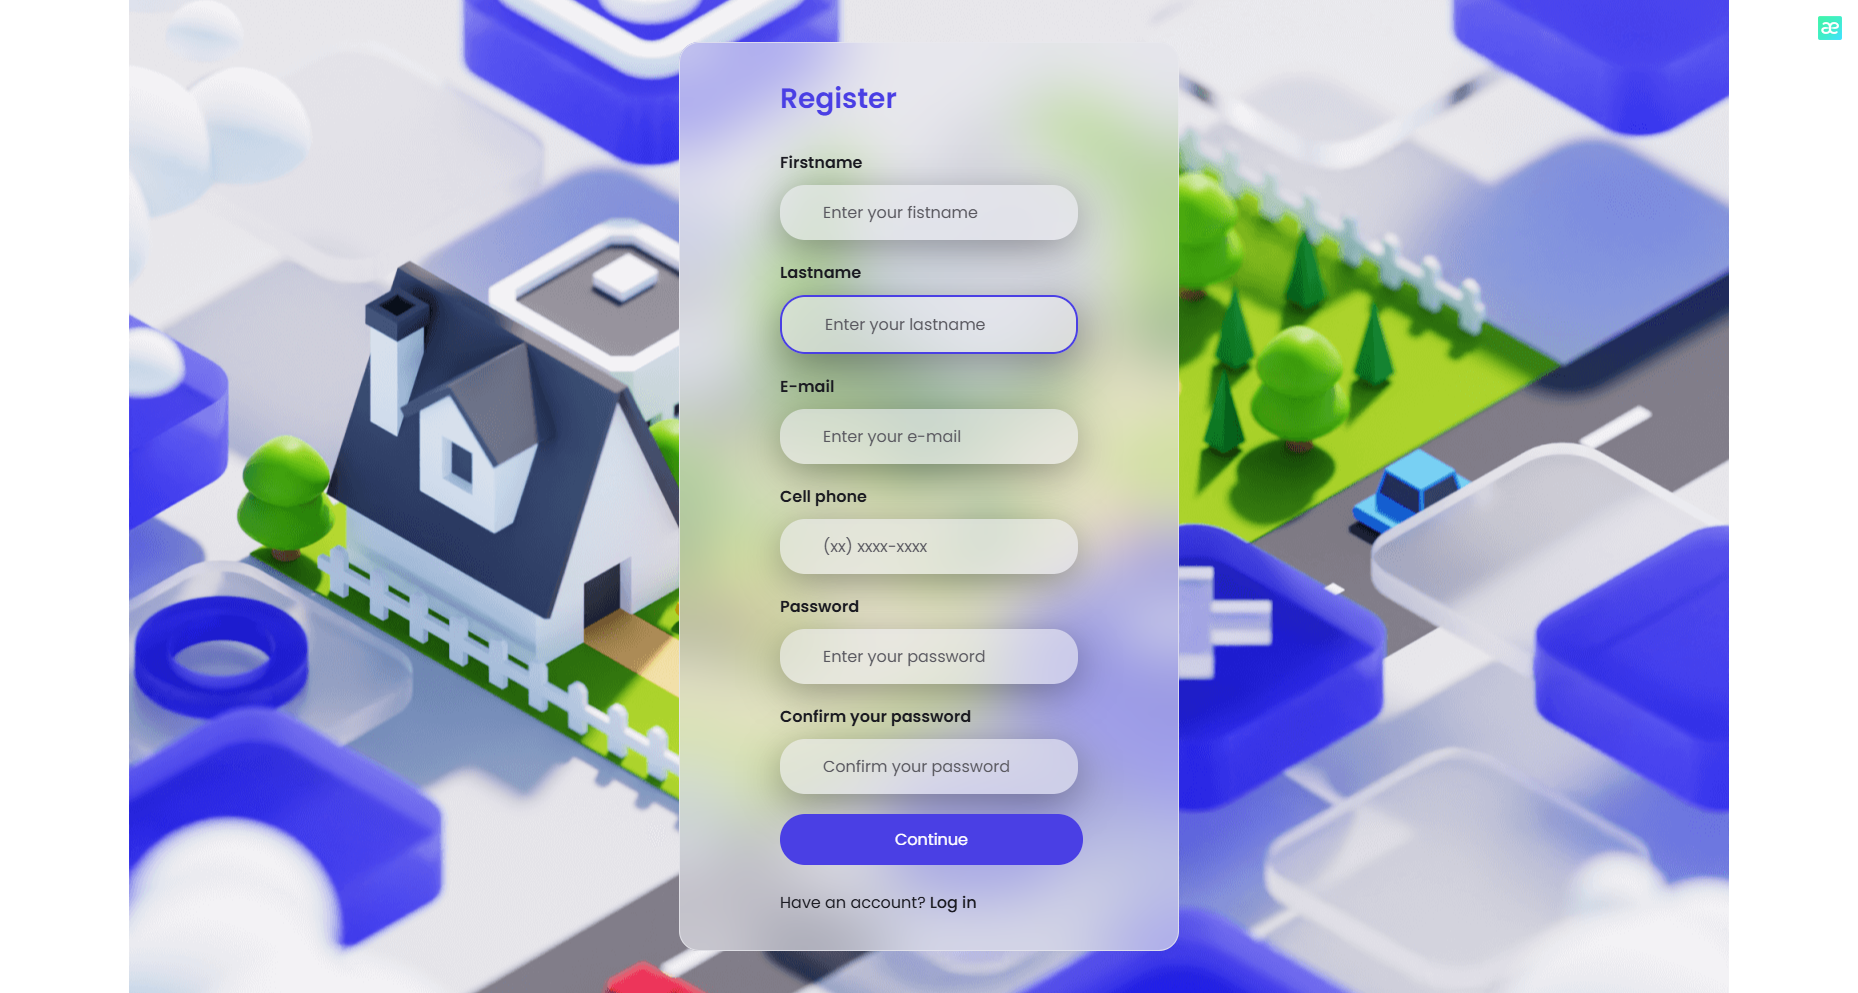
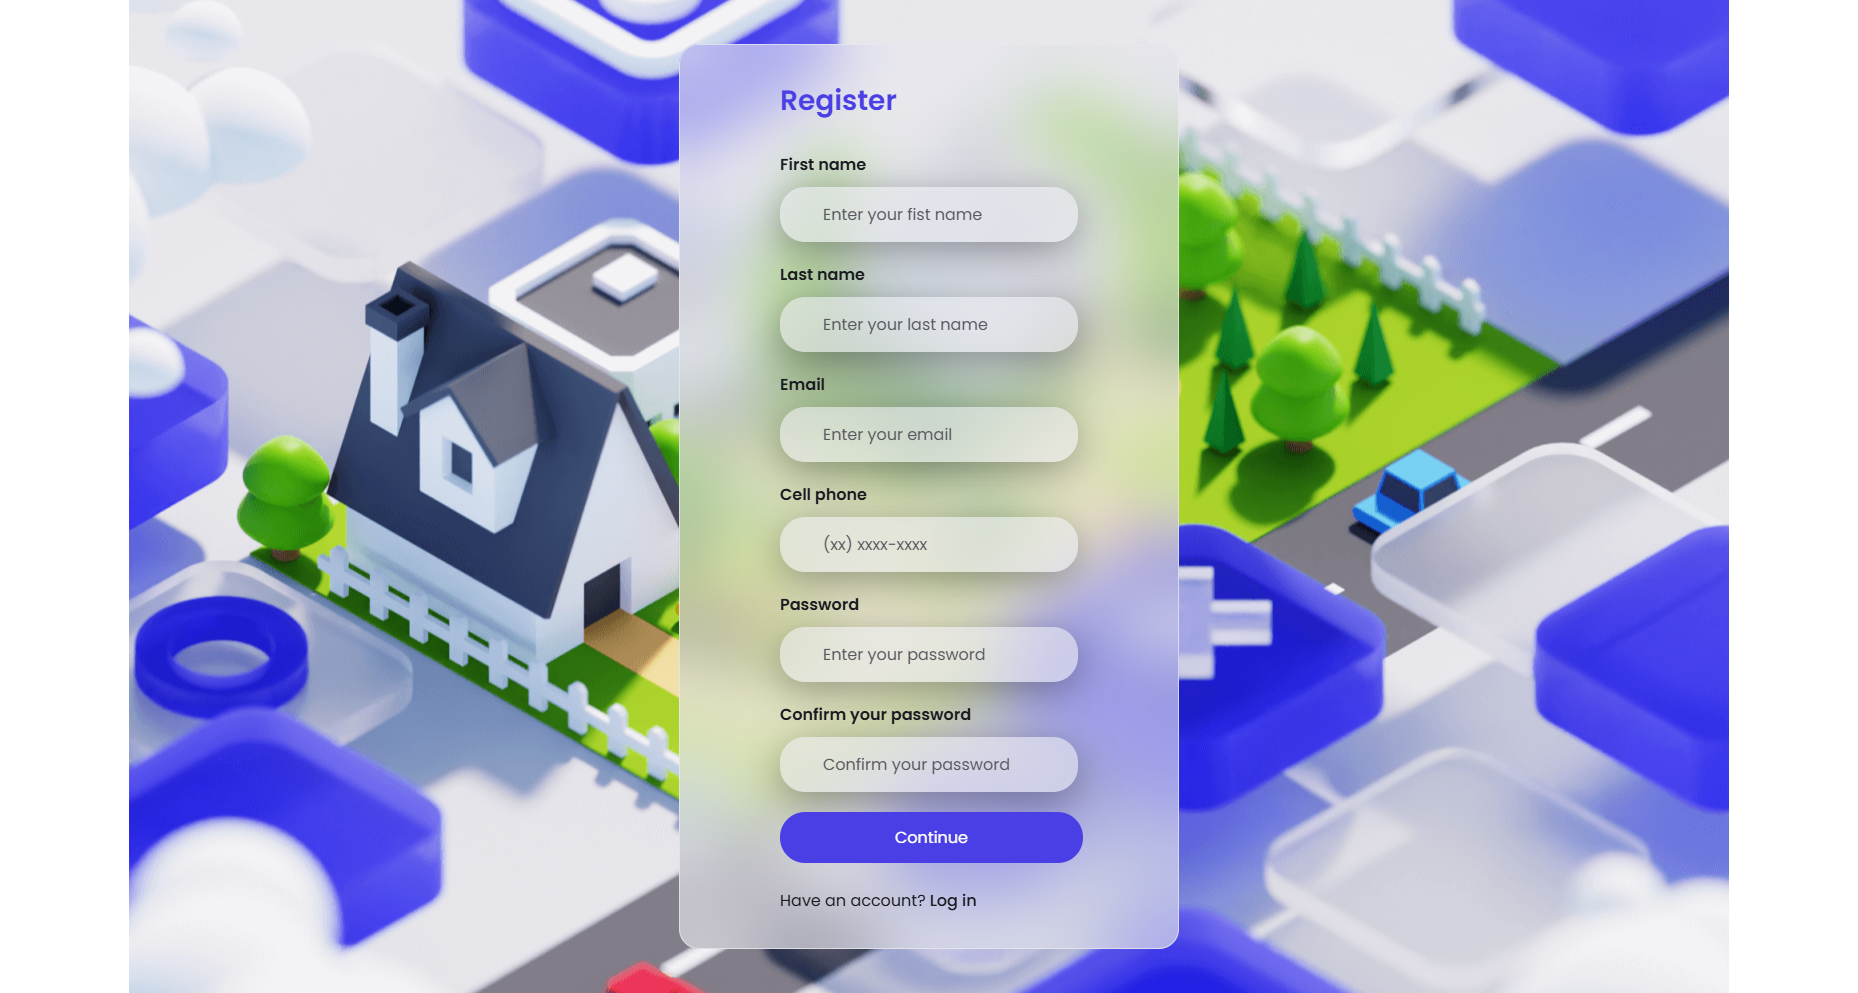
alteração do label na página cadastro

diff --git a/cadastro.html b/cadastro.html
@@ -23,17 +23,17 @@
 
         <div class="input-group">
           <div class="textfield">
-            <label for="firstname">Firstname</label>
-            <input id="firstname" type="text" name="firstname" placeholder="Enter your fistname" required>
+            <label for="firstname">First name</label>
+            <input id="firstname" type="text" name="firstname" placeholder="Enter your fist name" required>
           </div>
 
           <div class="textfield">
-            <label for="lastname">Lastname</label>
-            <input id="lastname" type="text" name="lastname" placeholder="Enter your lastname" required>
+            <label for="lastname">Last name</label>
+            <input id="lastname" type="text" name="lastname" placeholder="Enter your last name" required>
           </div>
           <div class="textfield">
-            <label for="email">E-mail</label>
-            <input id="email" type="email" name="email" placeholder="Enter your e-mail" required>
+            <label for="email">Email</label>
+            <input id="email" type="email" name="email" placeholder="Enter your email" required>
           </div>
 
           <div class="textfield">
